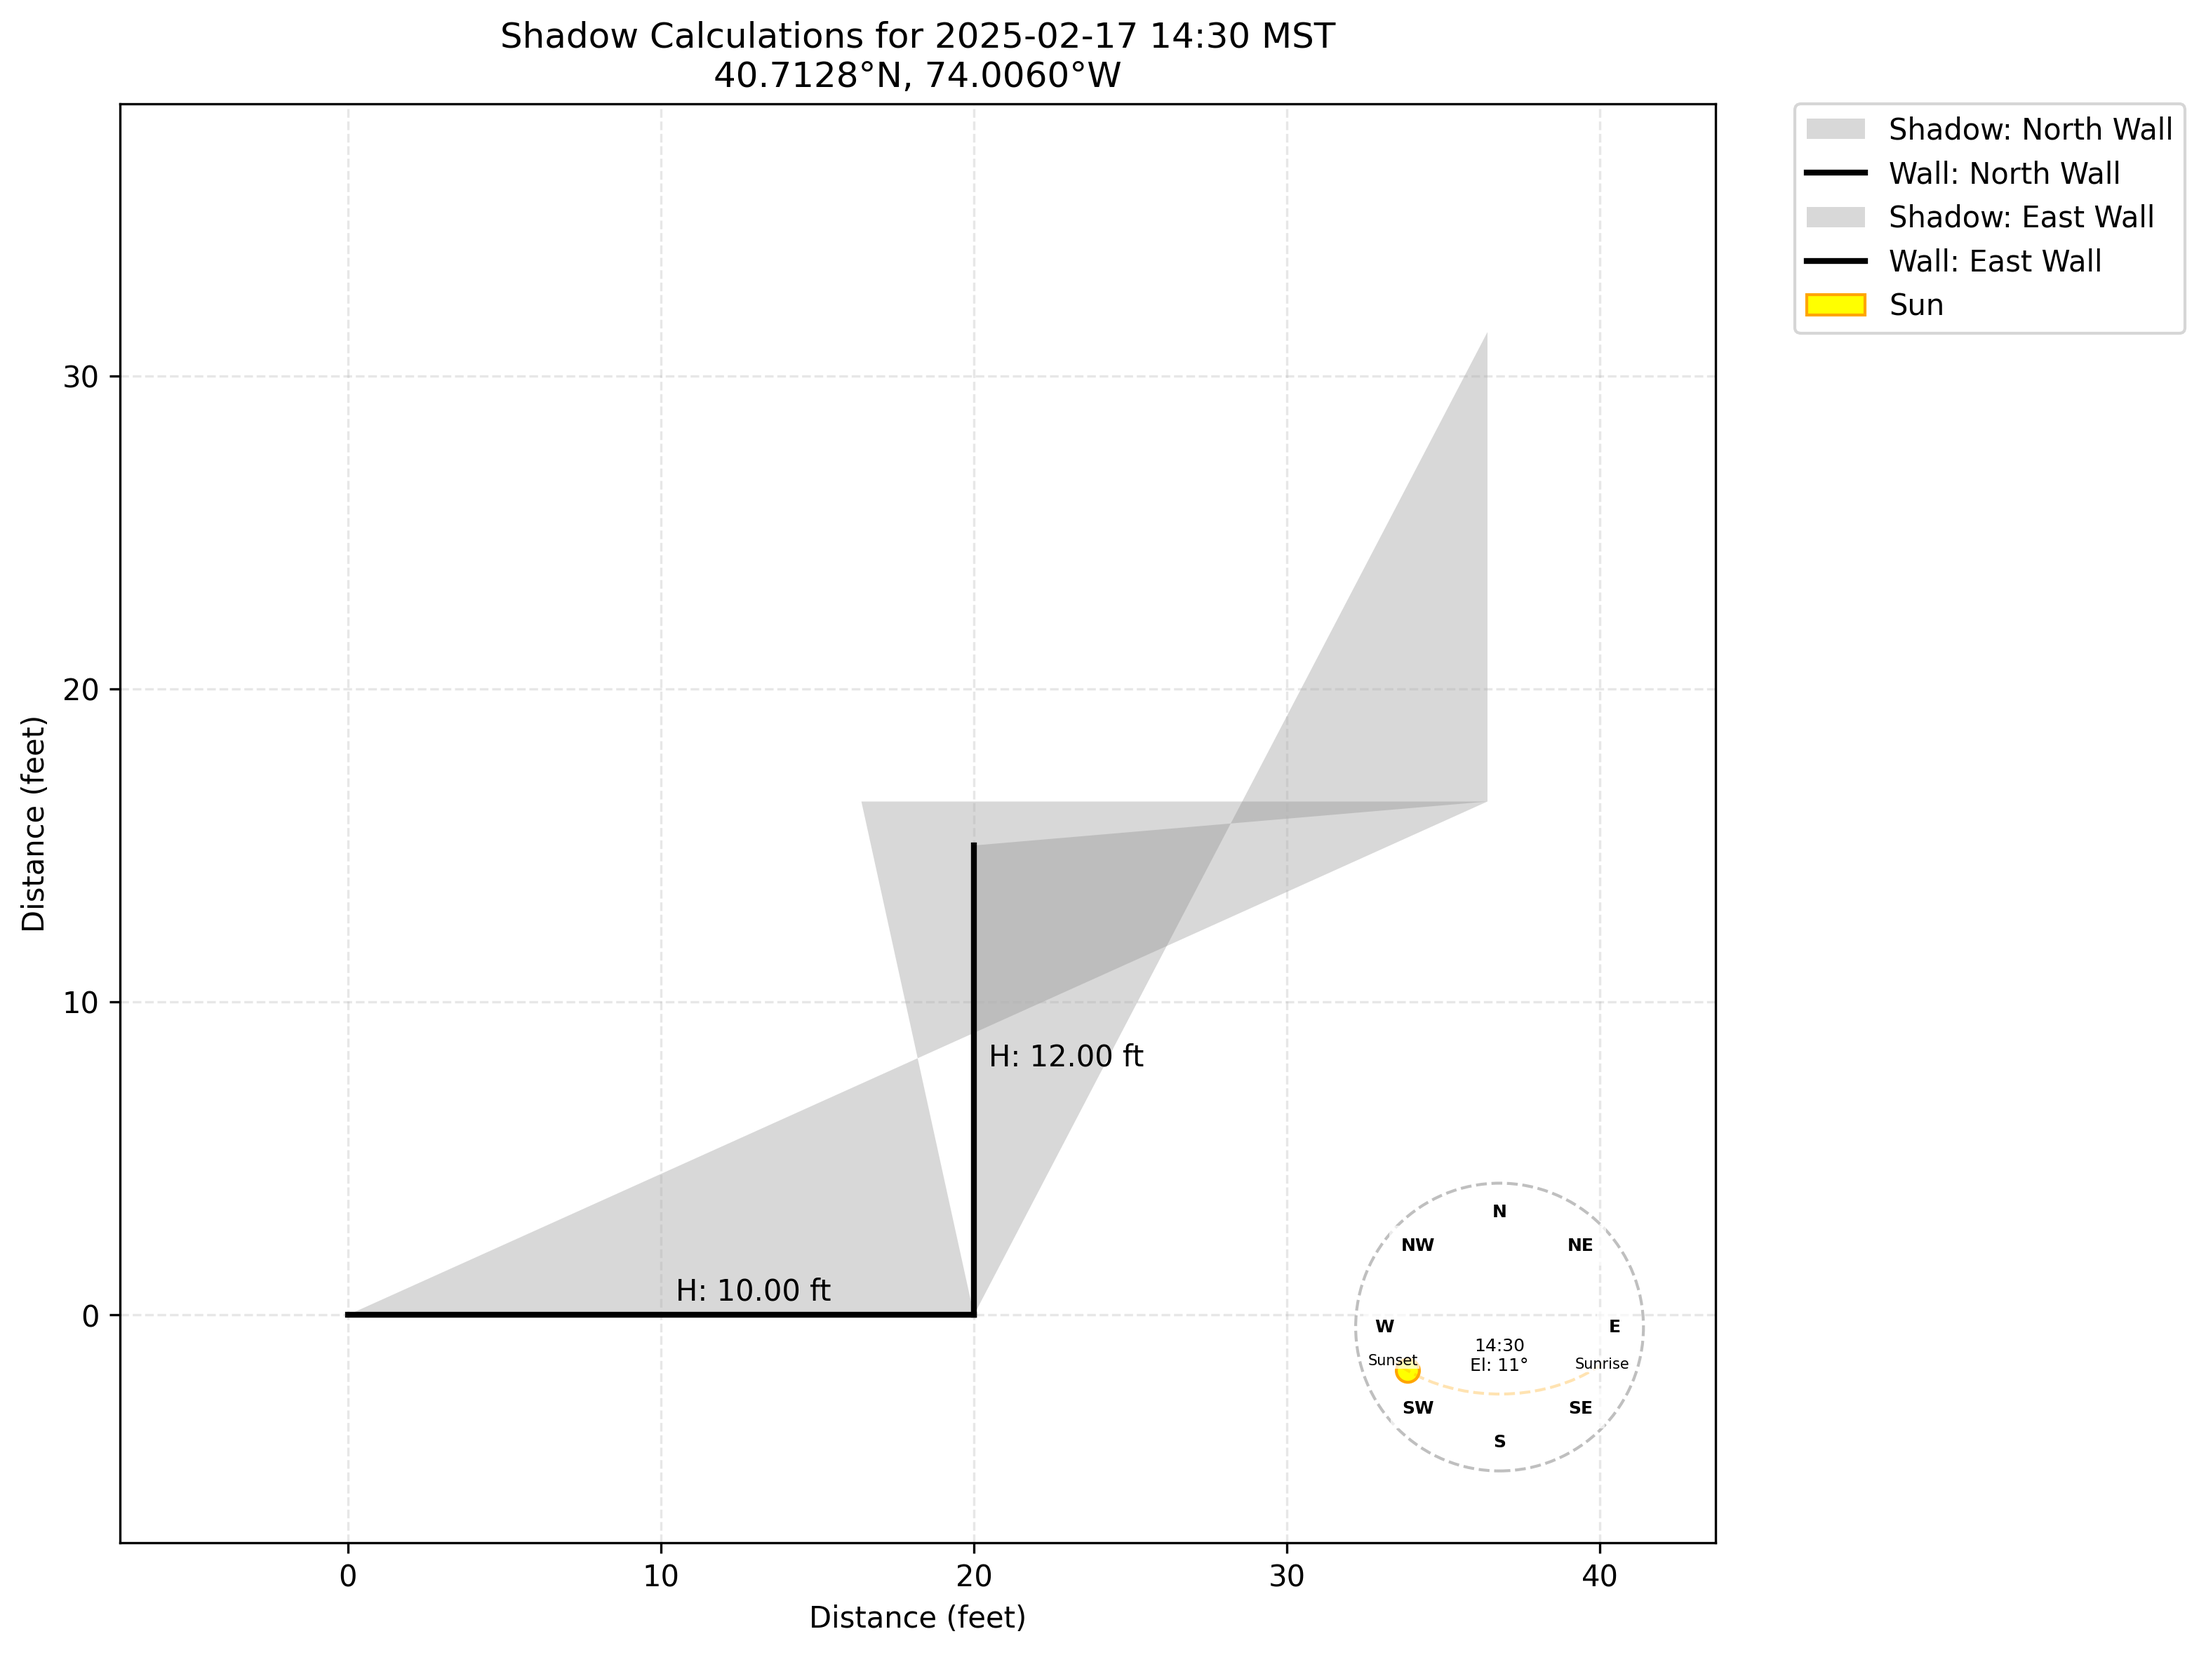
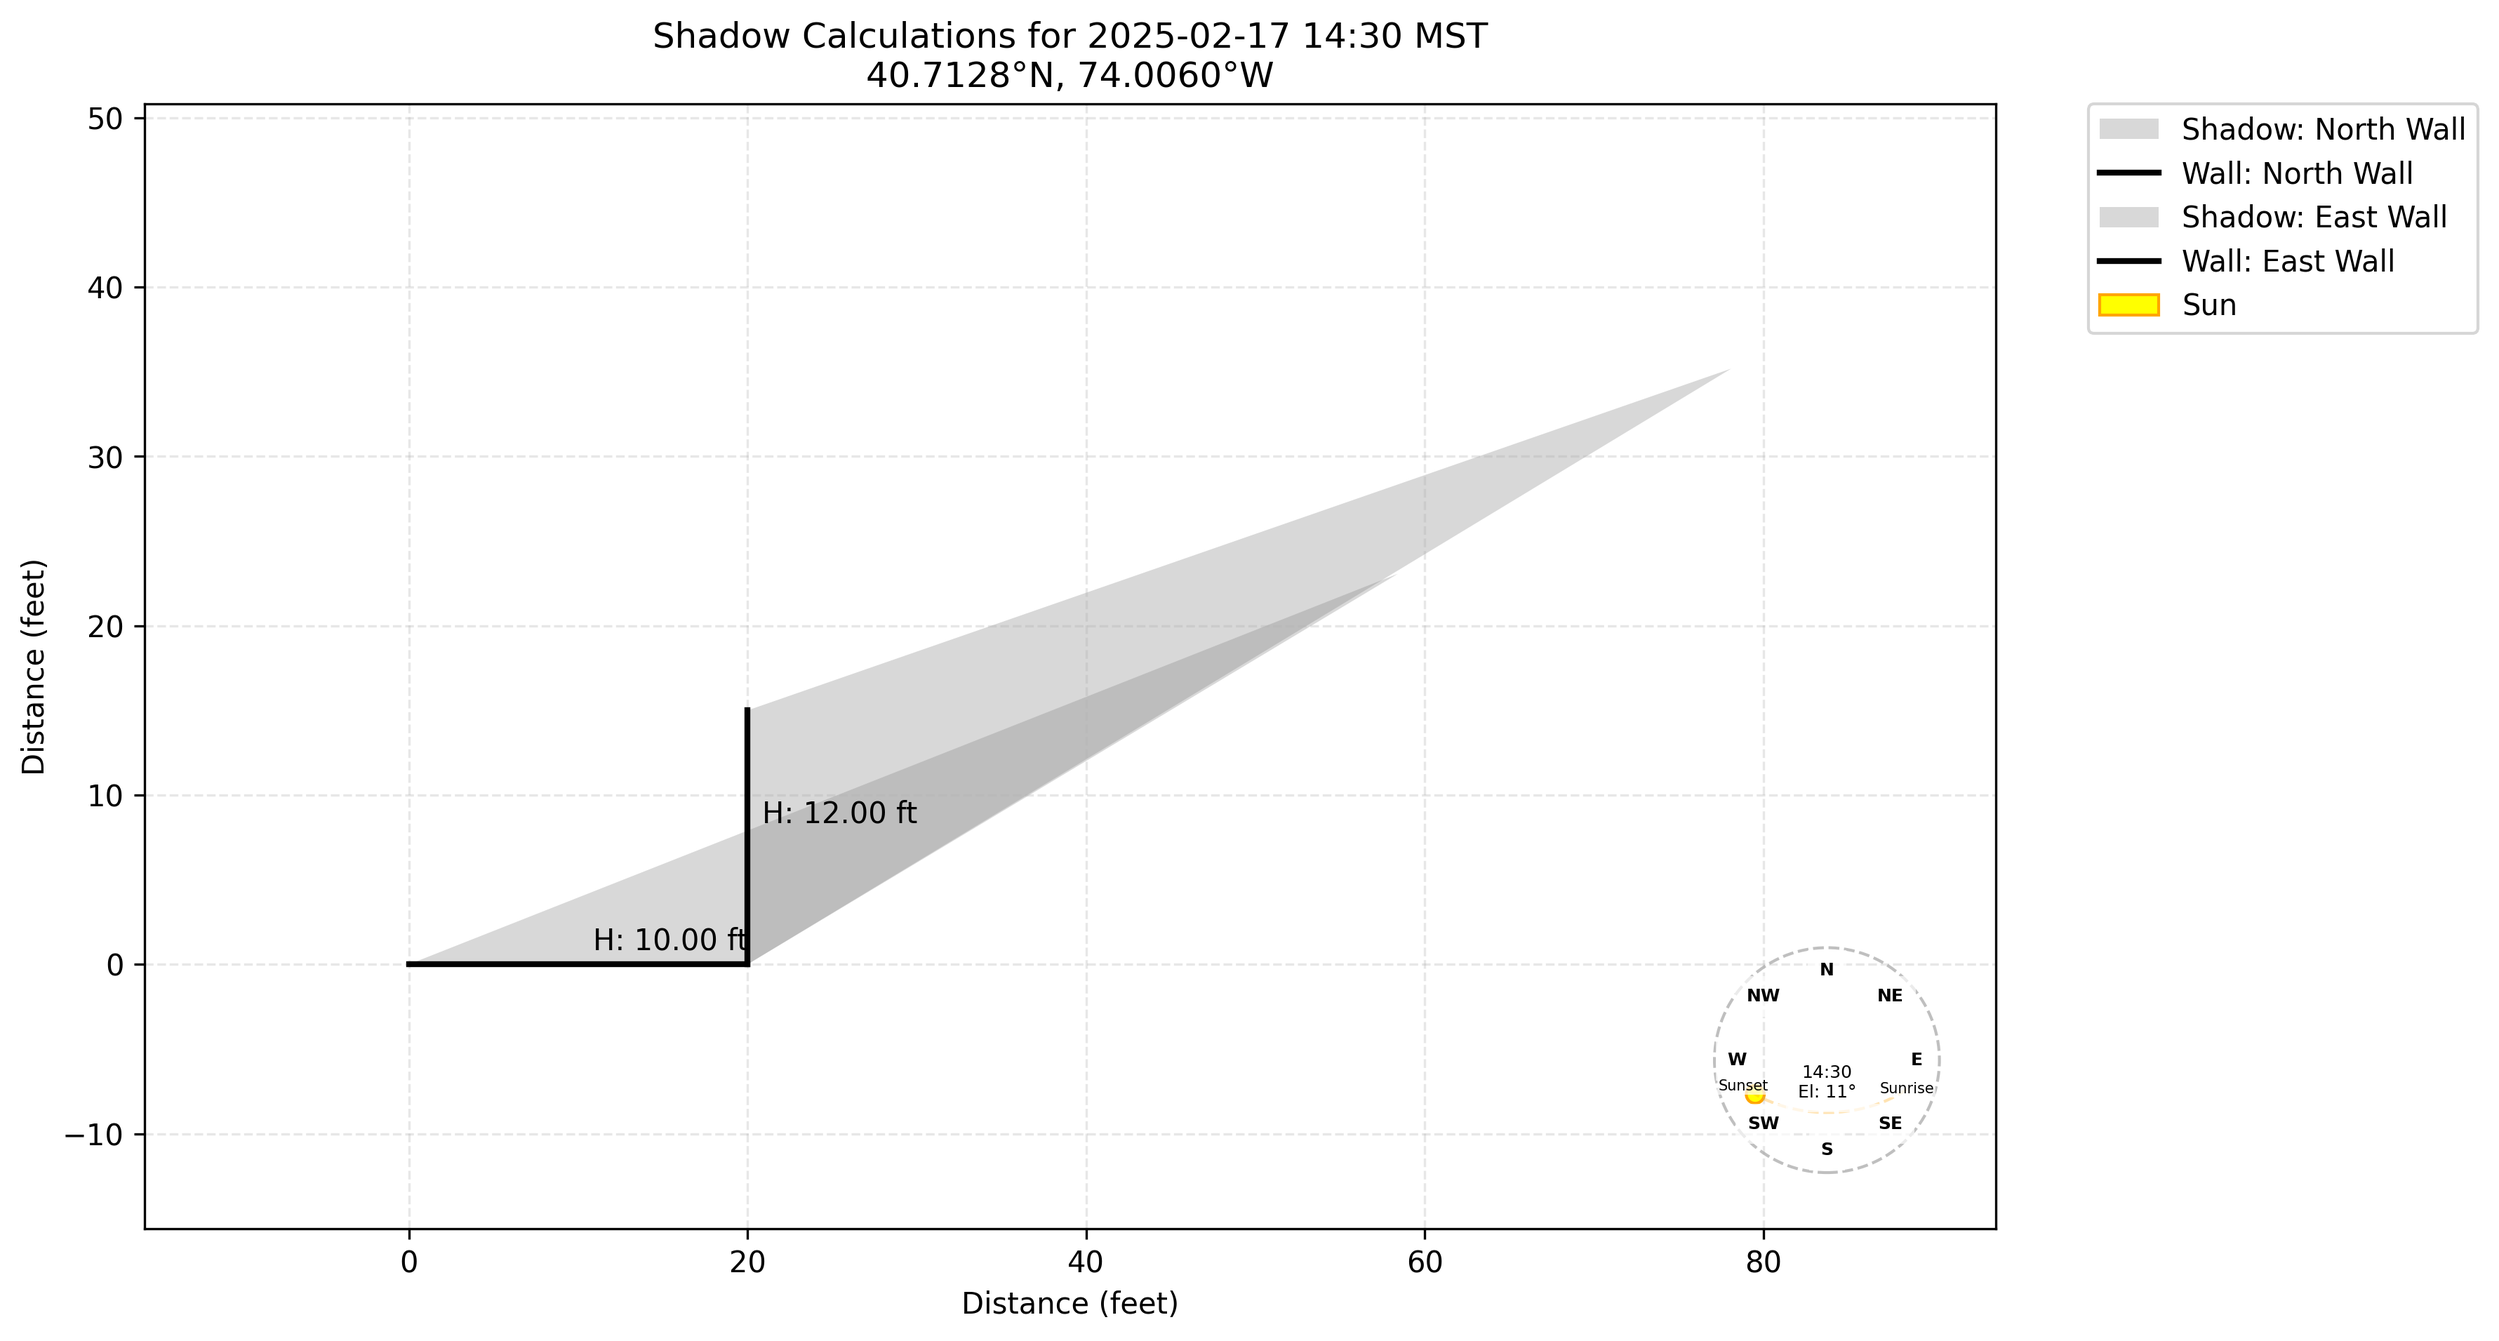
Shadow calculation added

diff --git a/Calculation/ShadowCalculations.py b/Calculation/ShadowCalculations.py
@@ -1,0 +1,157 @@
+import math
+import numpy as np
+from typing import List, Tuple
+from DataModel.Point import Point, ureg
+from DataModel.Wall import Wall
+from DataModel.Shadow import Shadow
+
+class ShadowCalculations:
+    """Static utility class for calculating shadow geometry."""
+    
+    @staticmethod
+    def calculate_wall_direction(wall: Wall) -> float:
+        """Calculate wall's direction in degrees clockwise from north.
+        
+        Args:
+            wall: Wall to calculate direction for
+            
+        Returns:
+            Direction in degrees (0-360)
+        """
+        # Get wall vector
+        dx = wall.end_point.x - wall.start_point.x
+        dy = wall.end_point.y - wall.start_point.y
+        
+        # Convert to angle (math angle is counterclockwise from east)
+        math_angle = math.atan2(dy.magnitude, dx.magnitude)
+        
+        # Convert to compass angle (clockwise from north)
+        compass_angle = (90 - math.degrees(math_angle)) % 360
+        
+        return compass_angle
+    
+    @staticmethod
+    def calculate_shadow_length(wall_height: ureg.Quantity, 
+                              solar_elevation: float) -> ureg.Quantity:
+        """Calculate shadow length based on wall height and sun elevation.
+        
+        Args:
+            wall_height: Height of wall
+            solar_elevation: Sun elevation in degrees
+            
+        Returns:
+            Shadow length in same units as wall height
+            
+        Note:
+            Uses the formula: length = height / tan(elevation)
+            When sun is at horizon (0°), length is infinite
+            When sun is overhead (90°), length is 0
+        """
+        # Convert elevation to radians
+        elevation_rad = math.radians(solar_elevation)
+        
+        # Avoid division by zero when sun is at horizon
+        if elevation_rad < 0.001:  # About 0.057 degrees
+            return wall_height * 1000  # Very long shadow
+            
+        # Calculate length using trigonometry
+        return wall_height / math.tan(elevation_rad)
+    
+    @staticmethod
+    def calculate_shadow_direction(solar_azimuth: float) -> float:
+        """Calculate shadow direction based on sun position.
+        
+        Args:
+            solar_azimuth: Sun azimuth in degrees clockwise from north
+            
+        Returns:
+            Shadow direction in degrees (0-360)
+            
+        Note:
+            Shadow direction is opposite to sun direction
+        """
+        return (solar_azimuth + 180) % 360
+    
+    @staticmethod
+    def calculate_shadow_vertices(wall: Wall, shadow_length: ureg.Quantity,
+                                shadow_direction: float) -> List[Point]:
+        """Calculate shadow vertices based on wall and shadow geometry.
+        
+        Args:
+            wall: Wall casting the shadow
+            shadow_length: Length of shadow
+            shadow_direction: Direction of shadow in degrees
+            
+        Returns:
+            List of 4 points forming shadow polygon:
+            [wall_start, wall_end, shadow_end, wall_start]
+            This creates a triangle from wall to shadow line
+        """
+        # Convert shadow direction to radians
+        direction_rad = math.radians(shadow_direction)
+        
+        # Calculate shadow end point offsets
+        dx = shadow_length * math.sin(direction_rad)
+        dy = shadow_length * math.cos(direction_rad)
+        
+        # Create offset quantities with same units as shadow length
+        dx = ureg.Quantity(dx, shadow_length.units)
+        dy = ureg.Quantity(dy, shadow_length.units)
+        
+        # Calculate shadow end point (from wall midpoint)
+        wall_mid_x = (wall.start_point.x + wall.end_point.x) / 2
+        wall_mid_y = (wall.start_point.y + wall.end_point.y) / 2
+        
+        shadow_end = Point(
+            x=wall_mid_x + dx,
+            y=wall_mid_y + dy
+        )
+        
+        # Return vertices in correct order to form triangle
+        return [
+            wall.start_point,    # Wall start
+            wall.end_point,      # Wall end
+            shadow_end,          # Shadow end point
+            wall.start_point     # Back to start to close polygon
+        ]
+    
+    @staticmethod
+    def calculate_shadow(wall: Wall, solar_elevation: float, 
+                        solar_azimuth: float, time) -> Shadow:
+        """Calculate complete shadow for a wall.
+        
+        Args:
+            wall: Wall casting the shadow
+            solar_elevation: Sun elevation in degrees
+            solar_azimuth: Sun azimuth in degrees
+            time: Time of calculation
+            
+        Returns:
+            Shadow object with complete geometry
+        """
+        # Calculate shadow length
+        shadow_length = ShadowCalculations.calculate_shadow_length(
+            wall_height=wall.height,
+            solar_elevation=solar_elevation
+        )
+        
+        # Calculate shadow direction
+        shadow_direction = ShadowCalculations.calculate_shadow_direction(
+            solar_azimuth=solar_azimuth
+        )
+        
+        # Calculate shadow vertices
+        vertices = ShadowCalculations.calculate_shadow_vertices(
+            wall=wall,
+            shadow_length=shadow_length,
+            shadow_direction=shadow_direction
+        )
+        
+        # Create shadow object
+        return Shadow(
+            wall=wall,
+            time=time,
+            vertices=vertices,
+            solar_elevation=solar_elevation,
+            solar_azimuth=solar_azimuth
+        )

diff --git a/ShadowCalculator.py b/ShadowCalculator.py
@@ -9,6 +9,7 @@ from DataModel.TimeSpecification import TimeSpecification
 from DataModel.PlotConfig import PlotConfig
 from Plotting.Plotter import Plotter
 from Calculation.Sun import Sun
+from Calculation.ShadowCalculations import ShadowCalculations
 import matplotlib.pyplot as plt
 import numpy as np
 
@@ -64,31 +65,14 @@ class ShadowCalculator:
             time=time
         )
         
-        # TODO: Implement actual shadow calculations using sun position
-        # This is a placeholder that creates dummy shadows
+        # Calculate shadows for each wall
         shadows = []
         for wall in self.walls:
-            # Create dummy vertices (will be replaced with actual calculations)
-            vertices = [
-                wall.start_point,  # Wall start
-                wall.end_point,    # Wall end
-                Point(            # Shadow end connected to wall start
-                    x=wall.start_point.x + ureg.Quantity('5 meters'),
-                    y=wall.start_point.y + ureg.Quantity('5 meters')
-                ),
-                Point(            # Shadow end connected to wall end
-                    x=wall.end_point.x + ureg.Quantity('5 meters'),
-                    y=wall.end_point.y + ureg.Quantity('5 meters')
-                )
-            ]
-            
-            # Create shadow with calculated solar position
-            shadow = Shadow(
+            shadow = ShadowCalculations.calculate_shadow(
                 wall=wall,
-                time=time,
-                vertices=vertices,
                 solar_elevation=sun_position.elevation,
-                solar_azimuth=sun_position.azimuth
+                solar_azimuth=sun_position.azimuth,
+                time=time
             )
             shadows.append(shadow)
             
